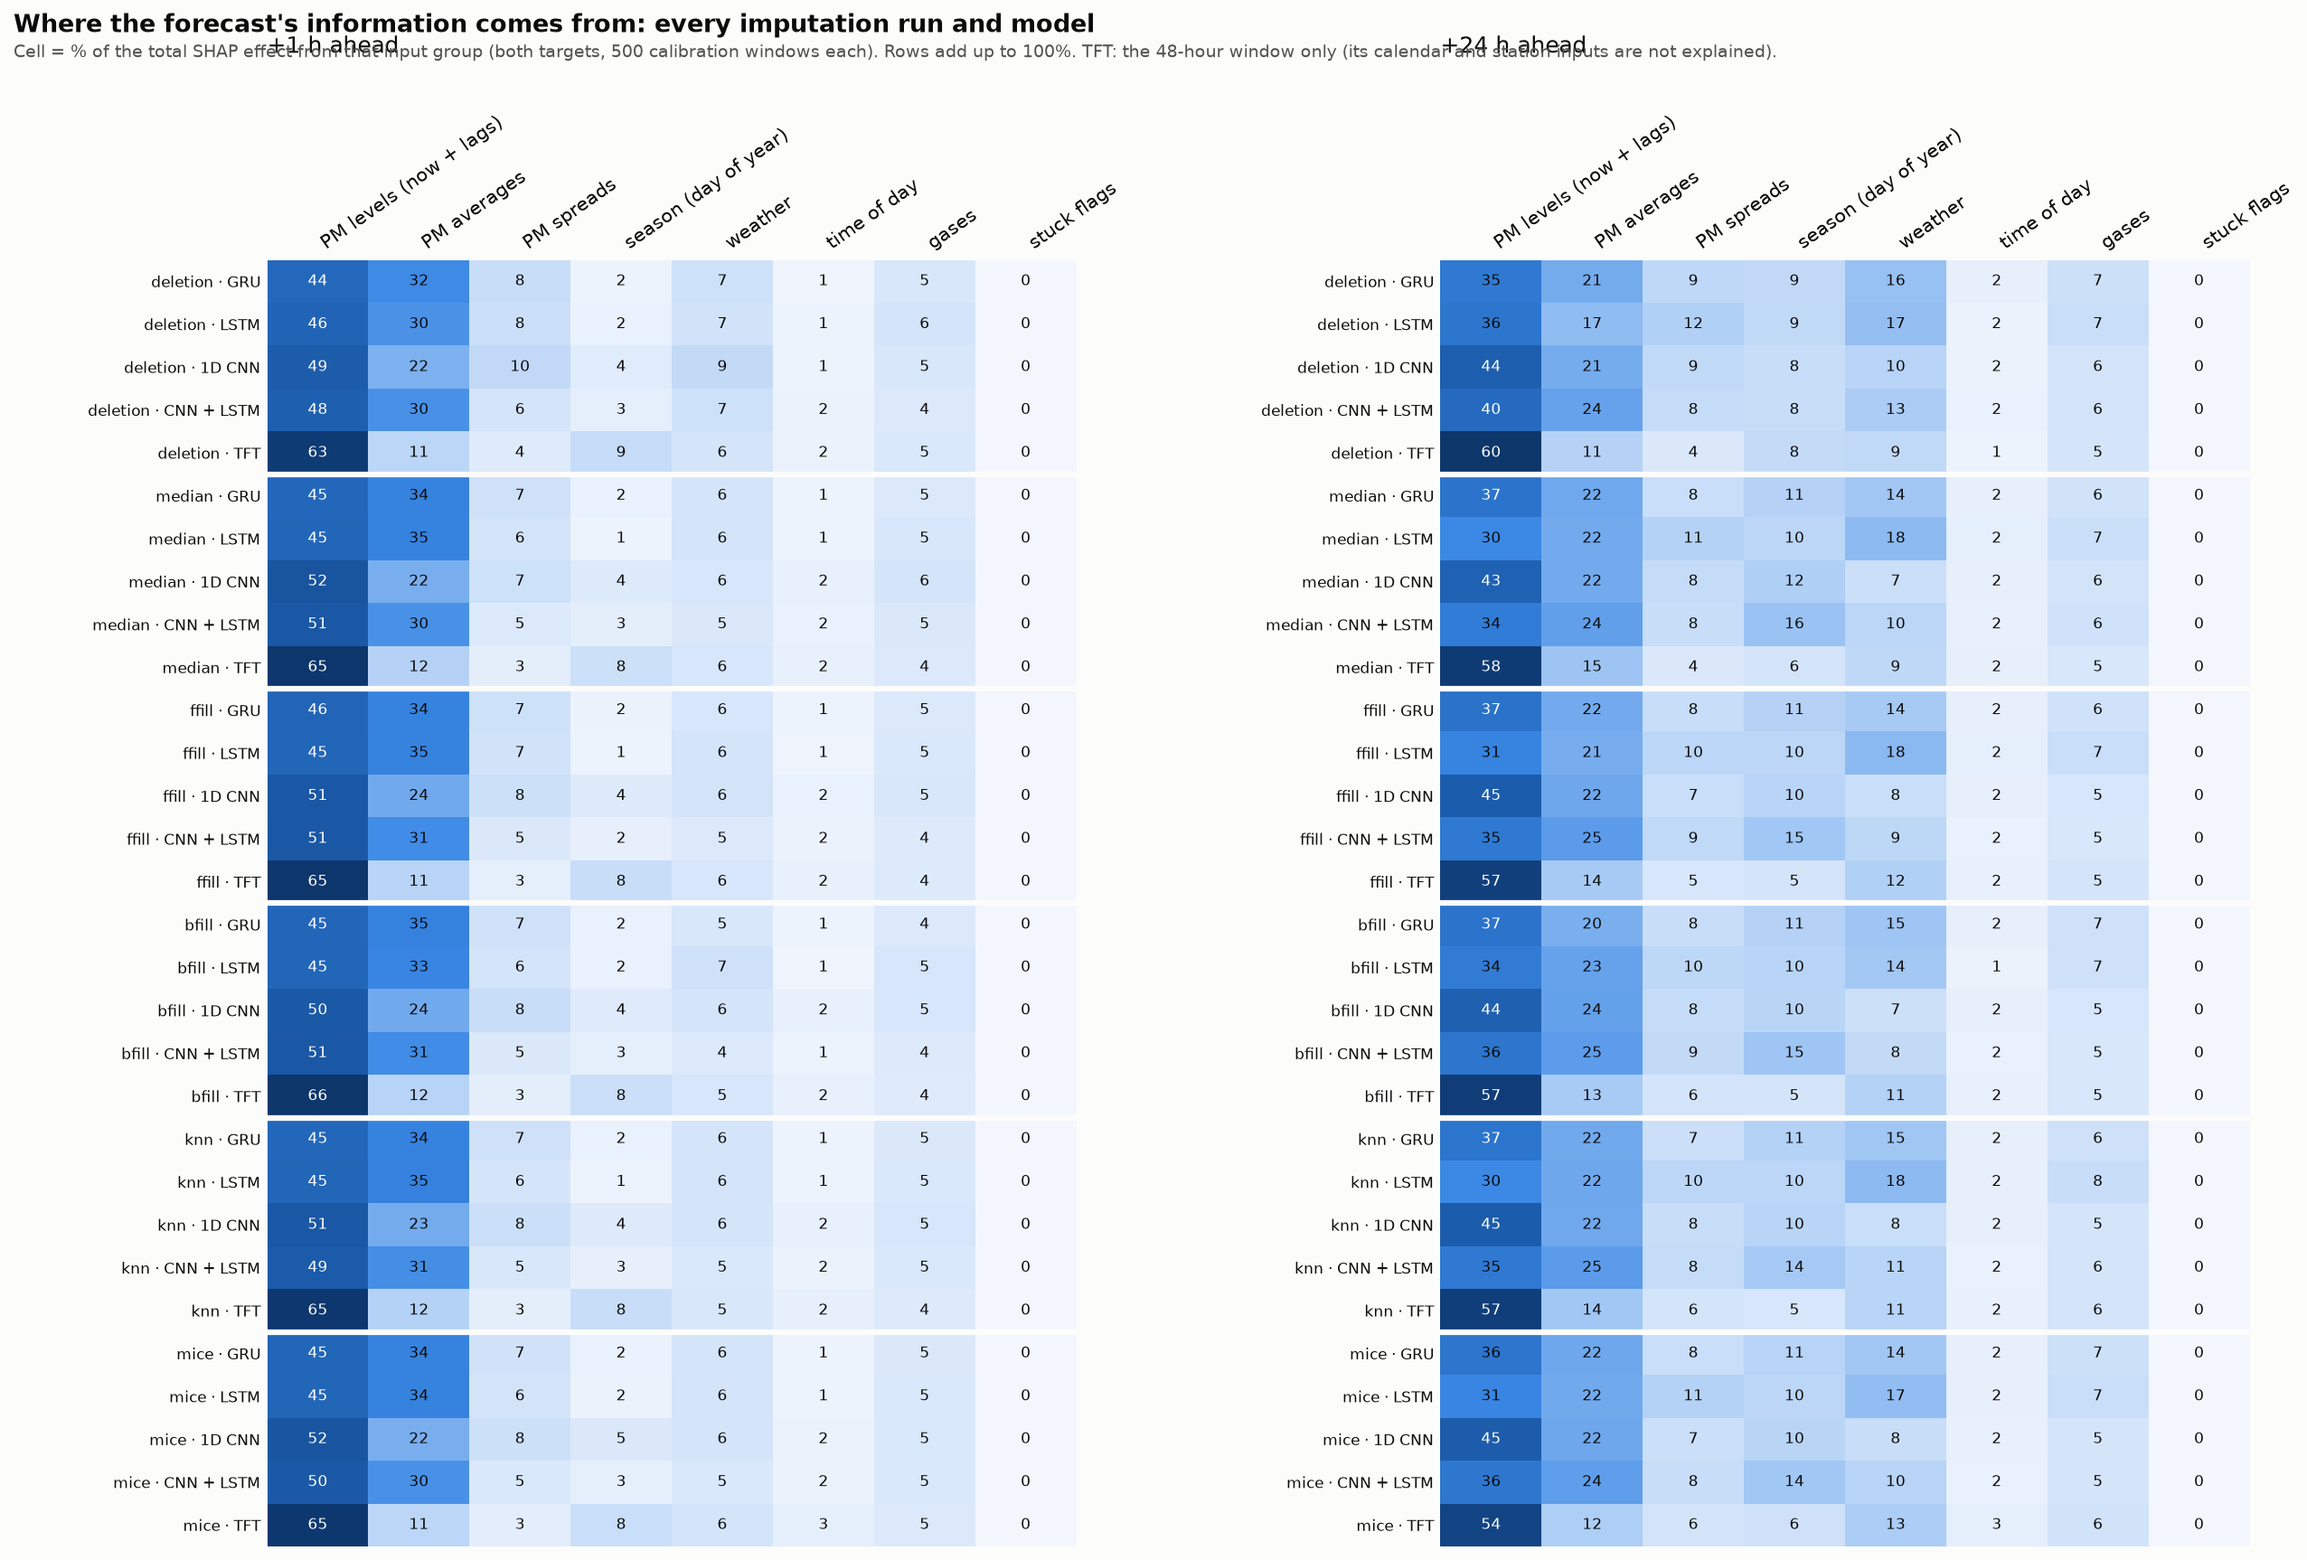
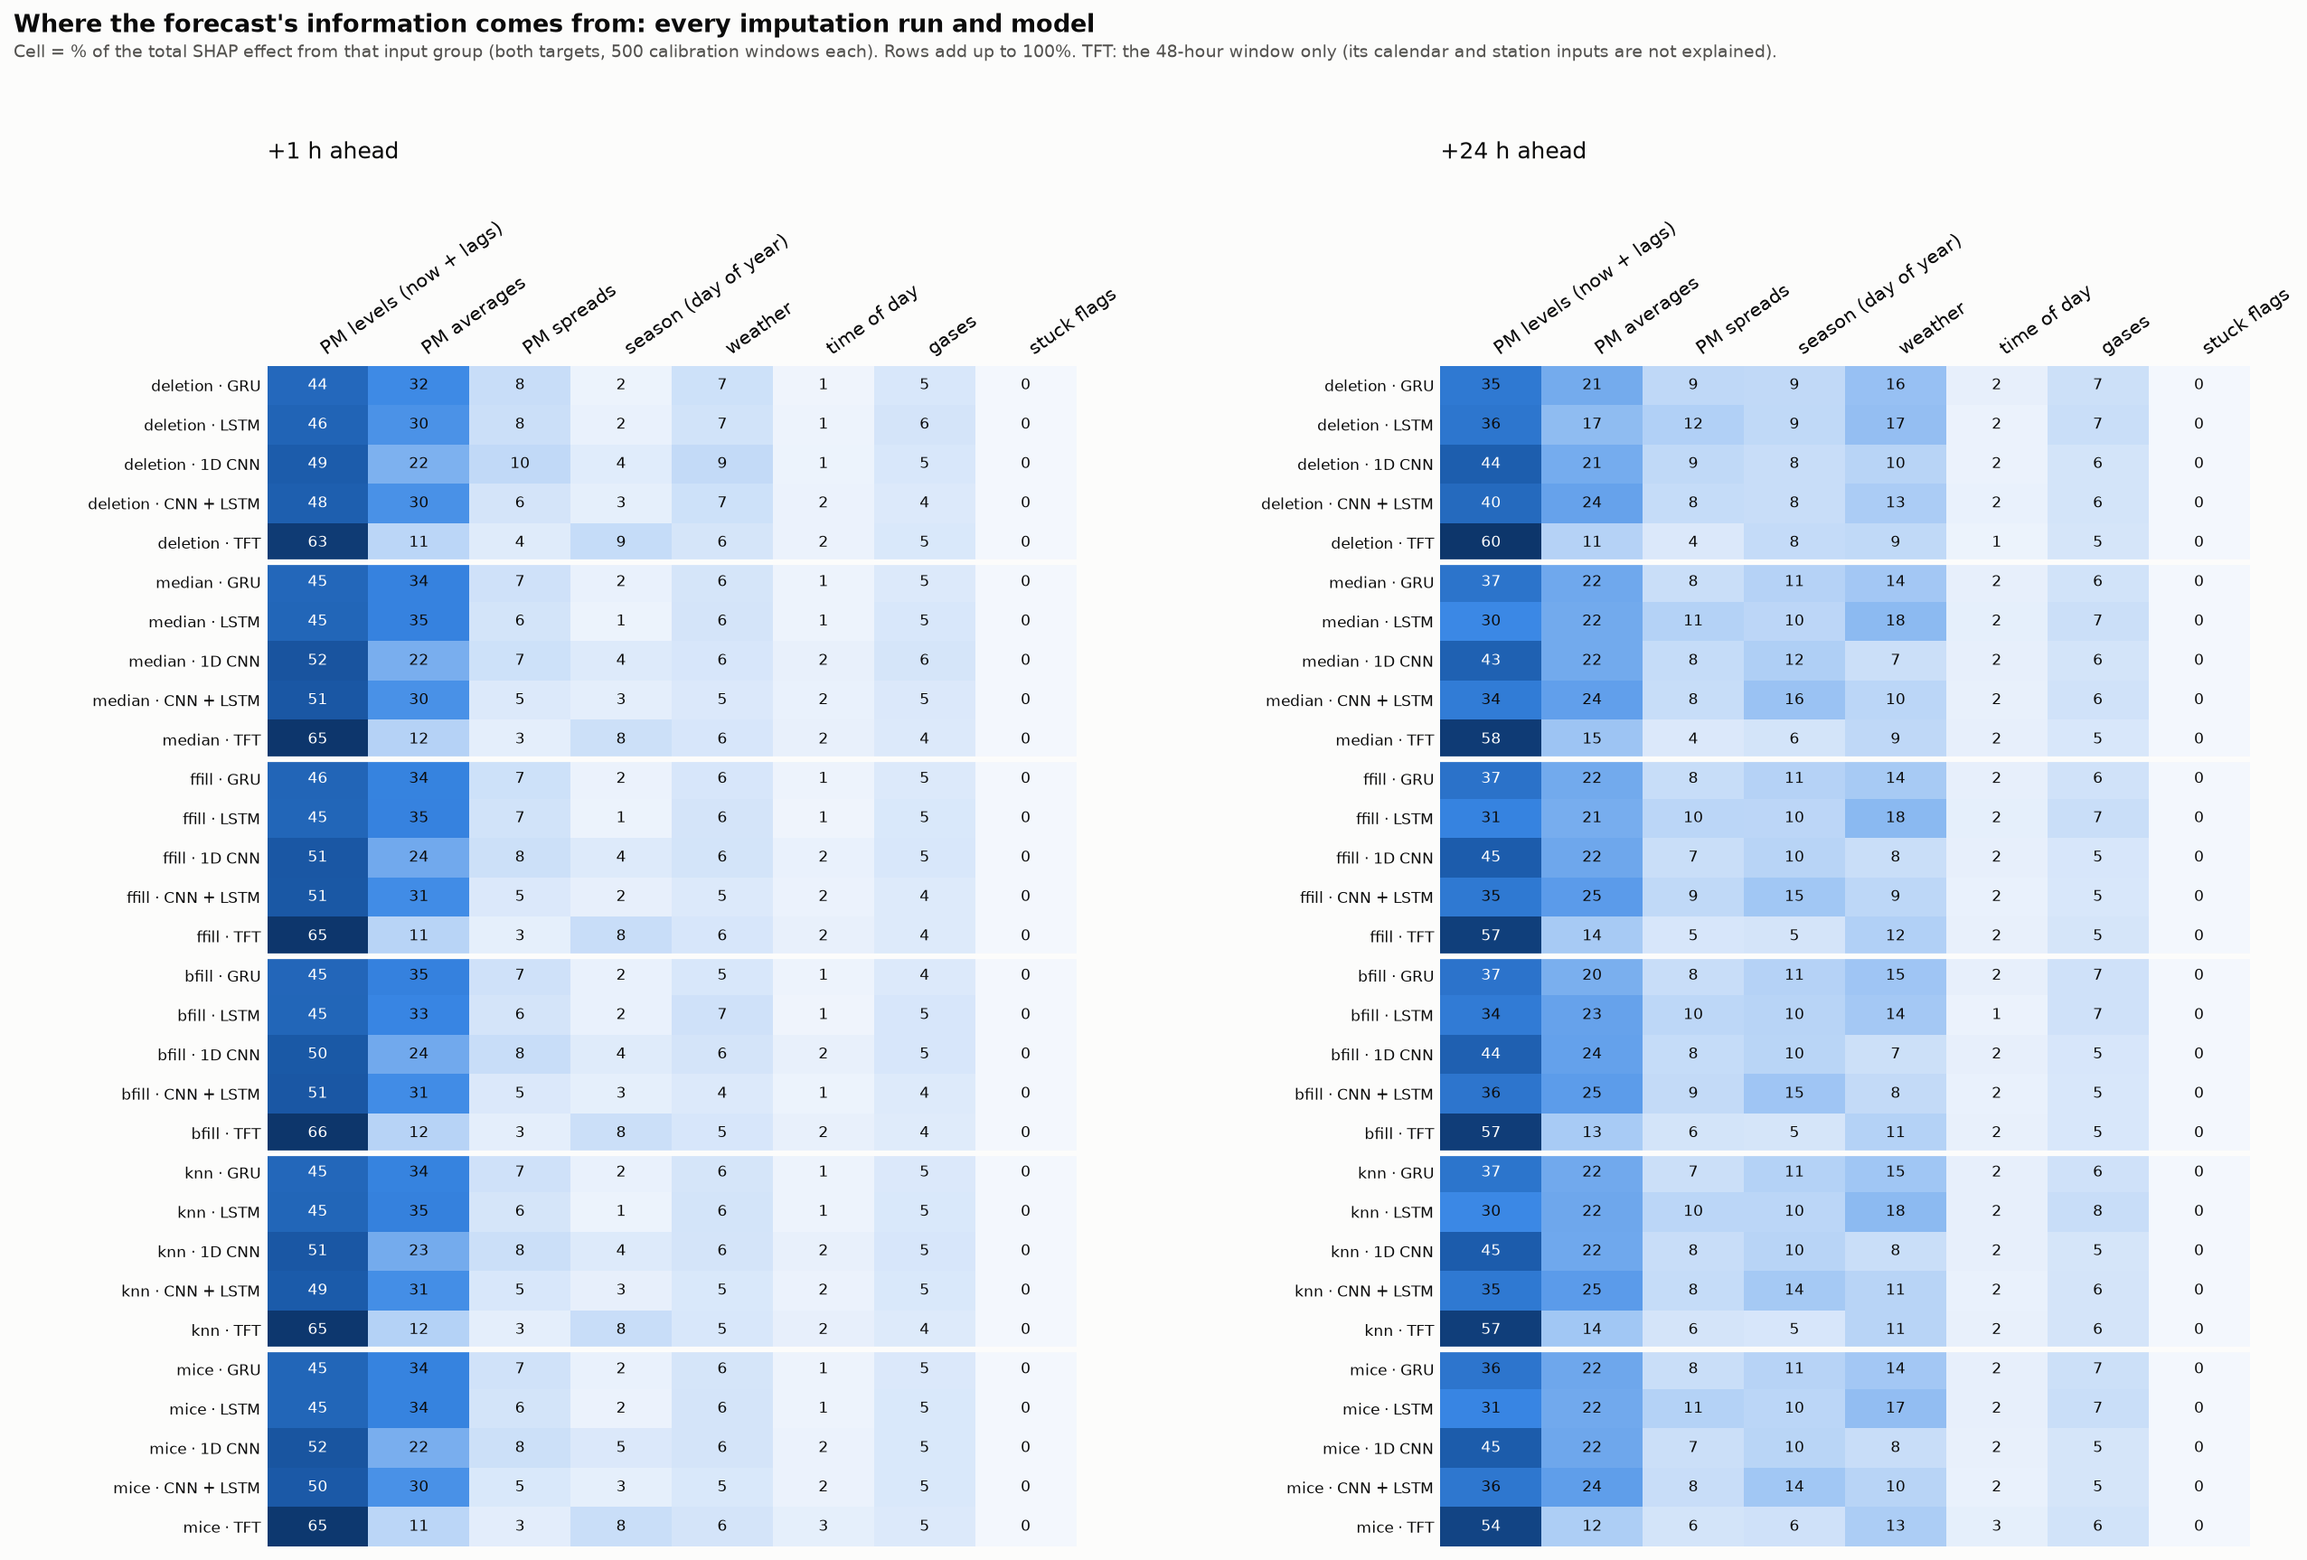
Fix title overlap in the all-runs SHAP summary chart

diff --git a/src/eval/shap_explain.py b/src/eval/shap_explain.py
@@ -377,7 +377,7 @@ def share_all_chart(all_table, cfg, path):
     fig.text(0.01, 0.955, "Cell = % of the total SHAP effect from that input group (both targets, "
                           f"{cfg['shap']['explain']} calibration windows each). Rows add up to 100%. TFT: the 48-hour "
                           "window only (its calendar and station inputs are not explained).", fontsize=9, color=SECONDARY)
-    fig.subplots_adjust(top=0.84, wspace=0.45, left=0.12, right=0.98)
+    fig.subplots_adjust(top=0.78, wspace=0.45, left=0.12, right=0.98)
     save(fig, path)
 
 
